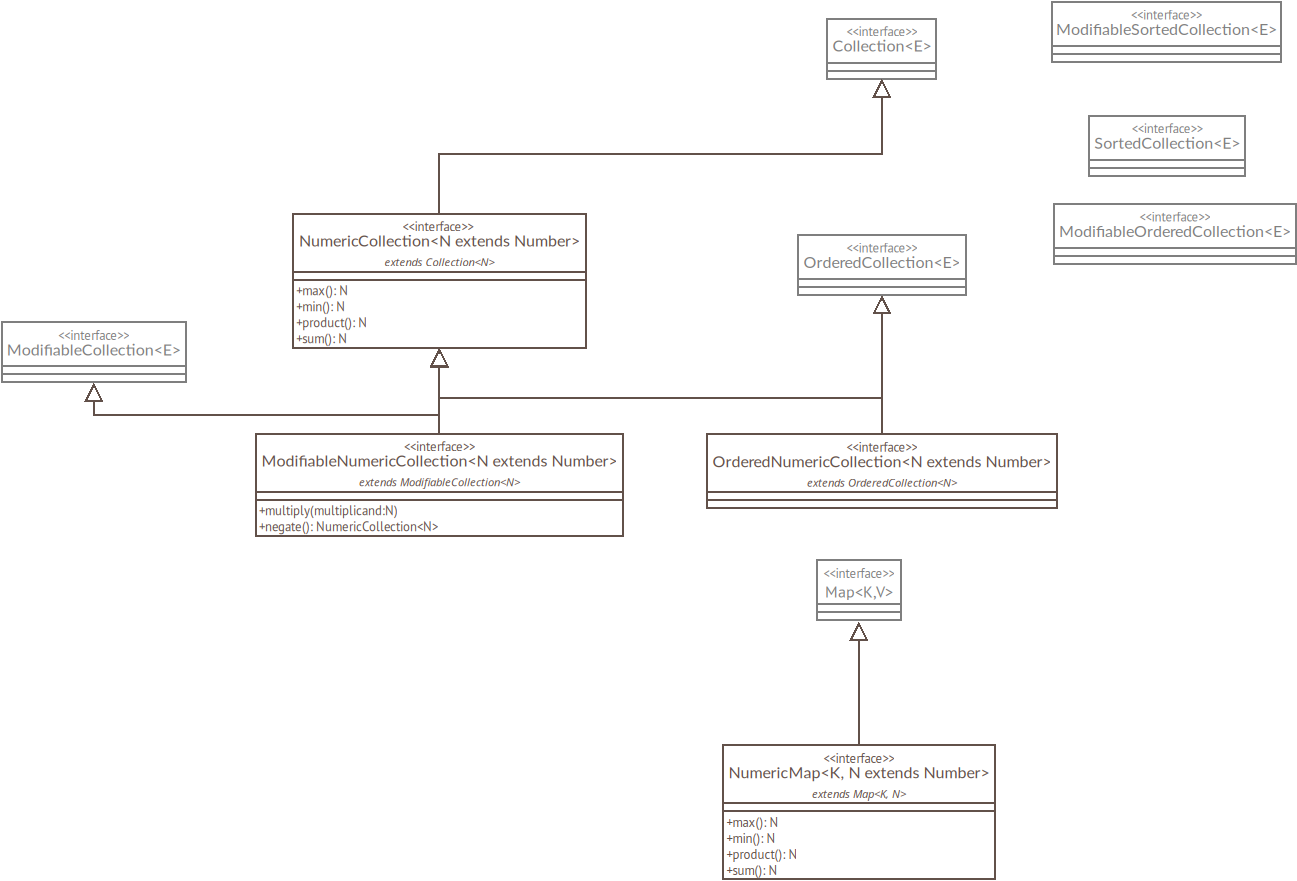
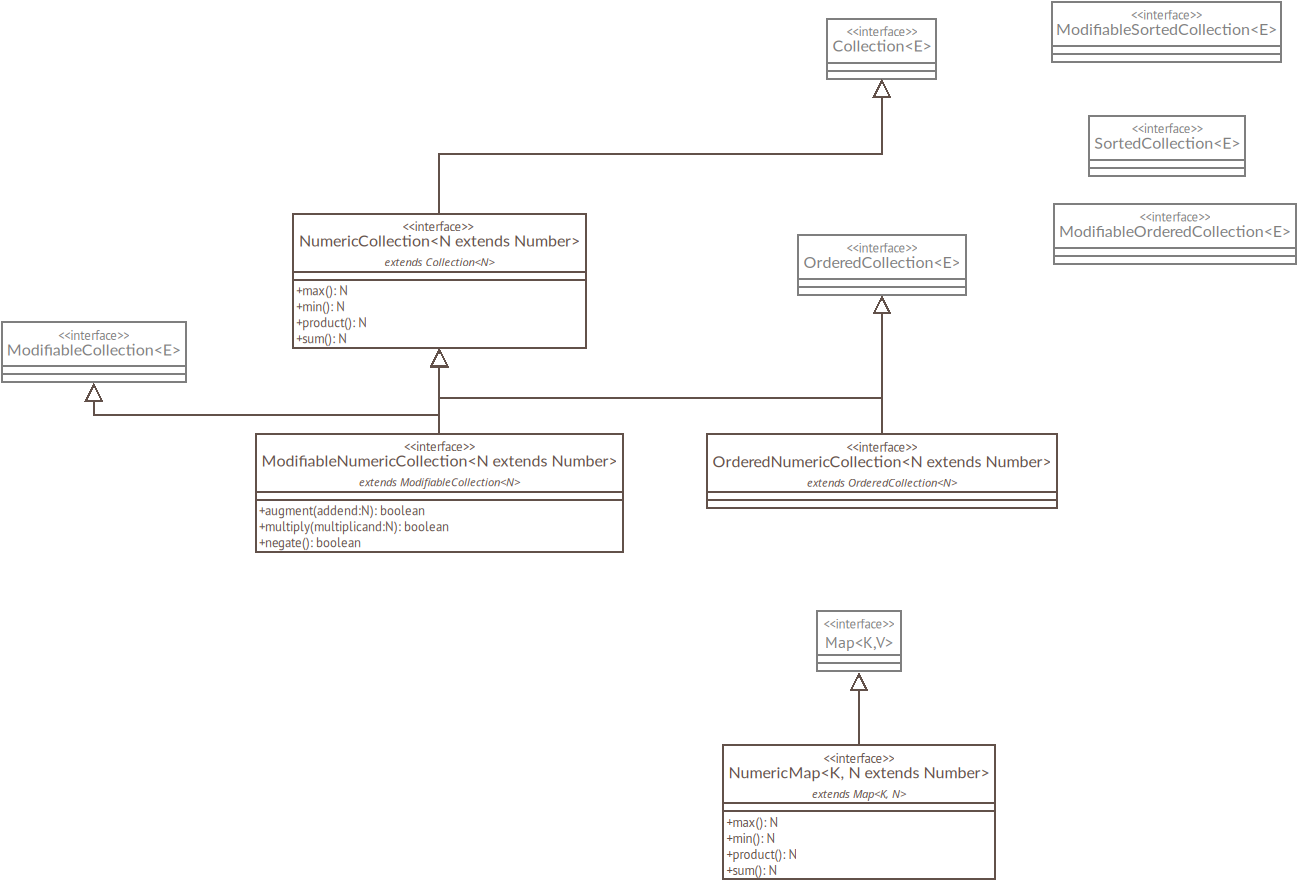
Issue #3: Defined the ModifiableNumericCollection

Changed region(s): [[0.6168, 0.6436, 0.7093, 0.7968], [0.185, 0.5516, 0.3701, 0.6436], [0.8327, 0.2452, 0.9869, 0.2758]]

diff --git a/src/main/java/net/filipvanlaenen/nombrajkolektoj/integers/AbstractIntegerCollection.java b/src/main/java/net/filipvanlaenen/nombrajkolektoj/integers/AbstractIntegerCollection.java
@@ -4,16 +4,13 @@ import net.filipvanlaenen.nombrajkolektoj.NumericCollection;
 
 abstract class AbstractIntegerCollection implements NumericCollection<Integer> {
     @Override
-    public Integer max() {
+    public Integer max() throws IndexOutOfBoundsException {
         if (size() == 0) {
-            return null;
+            throw new IndexOutOfBoundsException("Cannot return a maximum from an empty collection.");
         }
         Integer max = get();
         for (Integer i : this) {
-            if (i == null) {
-                return null;
-            }
-            if (i > max) {
+            if (i != null && (max == null || i > max)) {
                 max = i;
             }
         }
@@ -21,16 +18,13 @@ abstract class AbstractIntegerCollection implements NumericCollection<Integer> {
     }
 
     @Override
-    public Integer min() {
+    public Integer min() throws IndexOutOfBoundsException {
         if (size() == 0) {
-            return null;
+            throw new IndexOutOfBoundsException("Cannot return a minimum from an empty collection.");
         }
         Integer min = get();
         for (Integer i : this) {
-            if (i == null) {
-                return null;
-            }
-            if (i < min) {
+            if (i != null && (min == null || i < min)) {
                 min = i;
             }
         }
@@ -41,10 +35,9 @@ abstract class AbstractIntegerCollection implements NumericCollection<Integer> {
     public Integer product() {
         Integer product = 1;
         for (Integer i : this) {
-            if (i == null) {
-                return null;
+            if (i != null) {
+                product *= i;
             }
-            product *= i;
         }
         return product;
     }
@@ -53,10 +46,9 @@ abstract class AbstractIntegerCollection implements NumericCollection<Integer> {
     public Integer sum() {
         Integer sum = 0;
         for (Integer i : this) {
-            if (i == null) {
-                return null;
+            if (i != null) {
+                sum += i;
             }
-            sum += i;
         }
         return sum;
     }

diff --git a/src/main/java/net/filipvanlaenen/nombrajkolektoj/ModifiableNumericCollection.java b/src/main/java/net/filipvanlaenen/nombrajkolektoj/ModifiableNumericCollection.java
@@ -9,6 +9,15 @@ import net.filipvanlaenen.kolektoj.ModifiableCollection;
  */
 public interface ModifiableNumericCollection<N extends Number> extends NumericCollection<N>, ModifiableCollection<N> {
     /**
+     * Augments all the numbers in the collection with the addend and returns whether any of the numbers were changed.
+     * Ignores <code>null</code> elements.
+     *
+     * @param addend The number by which all numbers in the collection should be augmented.
+     * @return True if any of the numbers in the collection was changed.
+     */
+    boolean augment(N addend);
+
+    /**
      * Multiplies all the numbers in the collection with the multiplicand and returns whether any of the numbers were
      * changed. Ignores <code>null</code> elements.
      *

diff --git a/src/main/java/net/filipvanlaenen/nombrajkolektoj/integers/AbstractModifiableIntegerCollection.java b/src/main/java/net/filipvanlaenen/nombrajkolektoj/integers/AbstractModifiableIntegerCollection.java
@@ -5,6 +5,19 @@ import net.filipvanlaenen.nombrajkolektoj.ModifiableNumericCollection;
 abstract class AbstractModifiableIntegerCollection extends AbstractIntegerCollection
         implements ModifiableNumericCollection<Integer> {
     @Override
+    public boolean augment(final Integer addend) {
+        boolean result = false;
+        for (Integer i : toArray()) {
+            if (i != null && i != i + addend) {
+                remove(i);
+                add(i + addend);
+                result = true;
+            }
+        }
+        return result;
+    }
+
+    @Override
     public boolean multiply(final Integer value) {
         boolean result = false;
         for (Integer i : toArray()) {

diff --git a/src/main/java/net/filipvanlaenen/nombrajkolektoj/longs/AbstractModifiableLongCollection.java b/src/main/java/net/filipvanlaenen/nombrajkolektoj/longs/AbstractModifiableLongCollection.java
@@ -5,6 +5,19 @@ import net.filipvanlaenen.nombrajkolektoj.ModifiableNumericCollection;
 abstract class AbstractModifiableLongCollection extends AbstractLongCollection
         implements ModifiableNumericCollection<Long> {
     @Override
+    public boolean augment(final Long addend) {
+        boolean result = false;
+        for (Long i : toArray()) {
+            if (i != null && i != i + addend) {
+                remove(i);
+                add(i + addend);
+                result = true;
+            }
+        }
+        return result;
+    }
+
+    @Override
     public boolean multiply(final Long value) {
         boolean result = false;
         for (Long i : toArray()) {
